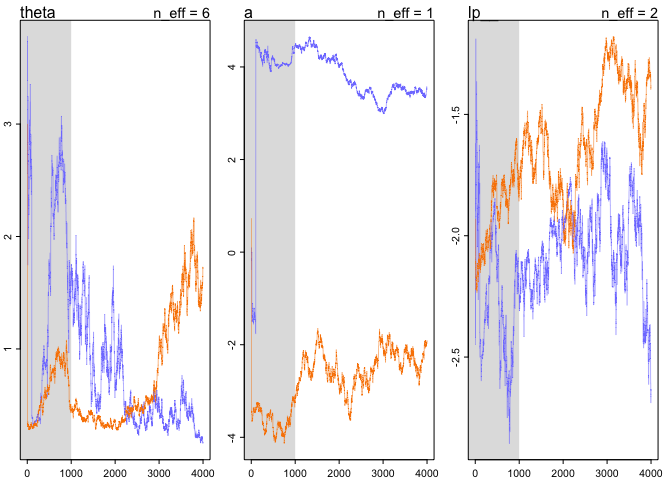
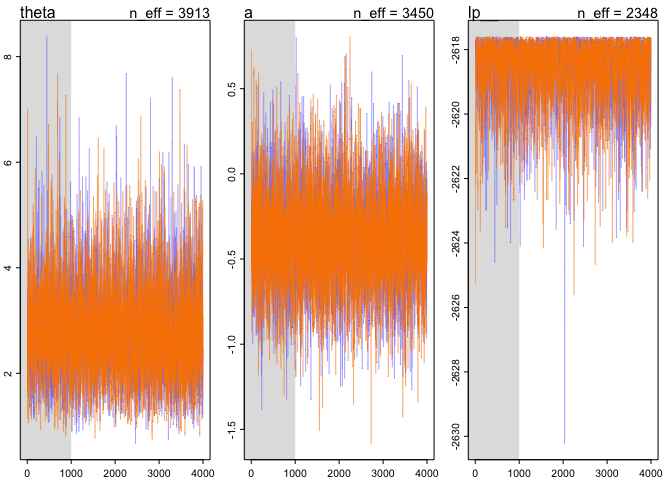
Chapter 11. Monsters and Mixtures (finished notes)

diff --git a/ch11_monsters-and-mixtures.md b/ch11_monsters-and-mixtures.md
@@ -648,7 +648,7 @@ m11_5 <- map2stan(
     alist(
         admit ~ dbetabinom(applications, pbar, theta),
         logit(pbar) <- a,
-        a ~ dnorm(0, 3),
+        a ~ dnorm(0, 2),
         theta ~ dexp(1)
     ),
     data = d,
@@ -657,51 +657,83 @@ m11_5 <- map2stan(
     iter = 4e3, 
     warmup = 1e3, 
     chains = 2, 
-    cores = 2,
-    control = list(max_treedepth = 1)
+    cores = 1
 )
 ```
 
     ## Trying to compile a simple C file
 
     ## Running /Library/Frameworks/R.framework/Resources/bin/R CMD SHLIB foo.c
-    ## clang -I"/Library/Frameworks/R.framework/Resources/include" -DNDEBUG   -I"/Library/Frameworks/R.framework/Versions/3.6/Resources/library/Rcpp/include/"  -I"/Library/Frameworks/R.framework/Versions/3.6/Resources/library/RcppEigen/include/"  -I"/Library/Frameworks/R.framework/Versions/3.6/Resources/library/RcppEigen/include/unsupported"  -I"/Library/Frameworks/R.framework/Versions/3.6/Resources/library/BH/include" -I"/Library/Frameworks/R.framework/Versions/3.6/Resources/library/StanHeaders/include/src/"  -I"/Library/Frameworks/R.framework/Versions/3.6/Resources/library/StanHeaders/include/"  -I"/Library/Frameworks/R.framework/Versions/3.6/Resources/library/rstan/include" -DEIGEN_NO_DEBUG  -D_REENTRANT  -DBOOST_DISABLE_ASSERTS -DBOOST_PENDING_INTEGER_LOG2_HPP -include stan/math/prim/mat/fun/Eigen.hpp   -isysroot /Library/Developer/CommandLineTools/SDKs/MacOSX.sdk -I/usr/local/include  -fPIC  -isysroot /Library/Developer/CommandLineTools/SDKs/MacOSX.sdk -c foo.c -o foo.o
+    ## clang -mmacosx-version-min=10.13 -I"/Library/Frameworks/R.framework/Resources/include" -DNDEBUG   -I"/Library/Frameworks/R.framework/Versions/4.0/Resources/library/Rcpp/include/"  -I"/Library/Frameworks/R.framework/Versions/4.0/Resources/library/RcppEigen/include/"  -I"/Library/Frameworks/R.framework/Versions/4.0/Resources/library/RcppEigen/include/unsupported"  -I"/Library/Frameworks/R.framework/Versions/4.0/Resources/library/BH/include" -I"/Library/Frameworks/R.framework/Versions/4.0/Resources/library/StanHeaders/include/src/"  -I"/Library/Frameworks/R.framework/Versions/4.0/Resources/library/StanHeaders/include/"  -I"/Library/Frameworks/R.framework/Versions/4.0/Resources/library/rstan/include" -DEIGEN_NO_DEBUG  -D_REENTRANT  -DBOOST_DISABLE_ASSERTS -DBOOST_PENDING_INTEGER_LOG2_HPP -include stan/math/prim/mat/fun/Eigen.hpp   -I/usr/local/include   -fPIC  -Wall -g -O2  -c foo.c -o foo.o
     ## In file included from <built-in>:1:
-    ## In file included from /Library/Frameworks/R.framework/Versions/3.6/Resources/library/StanHeaders/include/stan/math/prim/mat/fun/Eigen.hpp:13:
-    ## In file included from /Library/Frameworks/R.framework/Versions/3.6/Resources/library/RcppEigen/include/Eigen/Dense:1:
-    ## In file included from /Library/Frameworks/R.framework/Versions/3.6/Resources/library/RcppEigen/include/Eigen/Core:88:
-    ## /Library/Frameworks/R.framework/Versions/3.6/Resources/library/RcppEigen/include/Eigen/src/Core/util/Macros.h:613:1: error: unknown type name 'namespace'
+    ## In file included from /Library/Frameworks/R.framework/Versions/4.0/Resources/library/StanHeaders/include/stan/math/prim/mat/fun/Eigen.hpp:4:
+    ## In file included from /Library/Frameworks/R.framework/Versions/4.0/Resources/library/RcppEigen/include/Eigen/Dense:1:
+    ## In file included from /Library/Frameworks/R.framework/Versions/4.0/Resources/library/RcppEigen/include/Eigen/Core:88:
+    ## /Library/Frameworks/R.framework/Versions/4.0/Resources/library/RcppEigen/include/Eigen/src/Core/util/Macros.h:613:1: error: unknown type name 'namespace'
     ## namespace Eigen {
     ## ^
-    ## /Library/Frameworks/R.framework/Versions/3.6/Resources/library/RcppEigen/include/Eigen/src/Core/util/Macros.h:613:16: error: expected ';' after top level declarator
+    ## /Library/Frameworks/R.framework/Versions/4.0/Resources/library/RcppEigen/include/Eigen/src/Core/util/Macros.h:613:16: error: expected ';' after top level declarator
     ## namespace Eigen {
     ##                ^
     ##                ;
     ## In file included from <built-in>:1:
-    ## In file included from /Library/Frameworks/R.framework/Versions/3.6/Resources/library/StanHeaders/include/stan/math/prim/mat/fun/Eigen.hpp:13:
-    ## In file included from /Library/Frameworks/R.framework/Versions/3.6/Resources/library/RcppEigen/include/Eigen/Dense:1:
-    ## /Library/Frameworks/R.framework/Versions/3.6/Resources/library/RcppEigen/include/Eigen/Core:96:10: fatal error: 'complex' file not found
+    ## In file included from /Library/Frameworks/R.framework/Versions/4.0/Resources/library/StanHeaders/include/stan/math/prim/mat/fun/Eigen.hpp:4:
+    ## In file included from /Library/Frameworks/R.framework/Versions/4.0/Resources/library/RcppEigen/include/Eigen/Dense:1:
+    ## /Library/Frameworks/R.framework/Versions/4.0/Resources/library/RcppEigen/include/Eigen/Core:96:10: fatal error: 'complex' file not found
     ## #include <complex>
     ##          ^~~~~~~~~
     ## 3 errors generated.
     ## make: *** [foo.o] Error 1
-
-    ## Warning: There were 6000 transitions after warmup that exceeded the maximum treedepth. Increase max_treedepth above 1. See
-    ## http://mc-stan.org/misc/warnings.html#maximum-treedepth-exceeded
-
-    ## Warning: Examine the pairs() plot to diagnose sampling problems
-
-    ## Warning: The largest R-hat is 2.3, indicating chains have not mixed.
-    ## Running the chains for more iterations may help. See
-    ## http://mc-stan.org/misc/warnings.html#r-hat
-
-    ## Warning: Bulk Effective Samples Size (ESS) is too low, indicating posterior means and medians may be unreliable.
-    ## Running the chains for more iterations may help. See
-    ## http://mc-stan.org/misc/warnings.html#bulk-ess
-
-    ## Warning: Tail Effective Samples Size (ESS) is too low, indicating posterior variances and tail quantiles may be unreliable.
-    ## Running the chains for more iterations may help. See
-    ## http://mc-stan.org/misc/warnings.html#tail-ess
+    ## 
+    ## SAMPLING FOR MODEL 'c669d85dc0a14c2d86390e076d692f11' NOW (CHAIN 1).
+    ## Chain 1: 
+    ## Chain 1: Gradient evaluation took 0.000135 seconds
+    ## Chain 1: 1000 transitions using 10 leapfrog steps per transition would take 1.35 seconds.
+    ## Chain 1: Adjust your expectations accordingly!
+    ## Chain 1: 
+    ## Chain 1: 
+    ## Chain 1: Iteration:    1 / 4000 [  0%]  (Warmup)
+    ## Chain 1: Iteration:  400 / 4000 [ 10%]  (Warmup)
+    ## Chain 1: Iteration:  800 / 4000 [ 20%]  (Warmup)
+    ## Chain 1: Iteration: 1001 / 4000 [ 25%]  (Sampling)
+    ## Chain 1: Iteration: 1400 / 4000 [ 35%]  (Sampling)
+    ## Chain 1: Iteration: 1800 / 4000 [ 45%]  (Sampling)
+    ## Chain 1: Iteration: 2200 / 4000 [ 55%]  (Sampling)
+    ## Chain 1: Iteration: 2600 / 4000 [ 65%]  (Sampling)
+    ## Chain 1: Iteration: 3000 / 4000 [ 75%]  (Sampling)
+    ## Chain 1: Iteration: 3400 / 4000 [ 85%]  (Sampling)
+    ## Chain 1: Iteration: 3800 / 4000 [ 95%]  (Sampling)
+    ## Chain 1: Iteration: 4000 / 4000 [100%]  (Sampling)
+    ## Chain 1: 
+    ## Chain 1:  Elapsed Time: 0.097638 seconds (Warm-up)
+    ## Chain 1:                0.227966 seconds (Sampling)
+    ## Chain 1:                0.325604 seconds (Total)
+    ## Chain 1: 
+    ## 
+    ## SAMPLING FOR MODEL 'c669d85dc0a14c2d86390e076d692f11' NOW (CHAIN 2).
+    ## Chain 2: 
+    ## Chain 2: Gradient evaluation took 3.9e-05 seconds
+    ## Chain 2: 1000 transitions using 10 leapfrog steps per transition would take 0.39 seconds.
+    ## Chain 2: Adjust your expectations accordingly!
+    ## Chain 2: 
+    ## Chain 2: 
+    ## Chain 2: Iteration:    1 / 4000 [  0%]  (Warmup)
+    ## Chain 2: Iteration:  400 / 4000 [ 10%]  (Warmup)
+    ## Chain 2: Iteration:  800 / 4000 [ 20%]  (Warmup)
+    ## Chain 2: Iteration: 1001 / 4000 [ 25%]  (Sampling)
+    ## Chain 2: Iteration: 1400 / 4000 [ 35%]  (Sampling)
+    ## Chain 2: Iteration: 1800 / 4000 [ 45%]  (Sampling)
+    ## Chain 2: Iteration: 2200 / 4000 [ 55%]  (Sampling)
+    ## Chain 2: Iteration: 2600 / 4000 [ 65%]  (Sampling)
+    ## Chain 2: Iteration: 3000 / 4000 [ 75%]  (Sampling)
+    ## Chain 2: Iteration: 3400 / 4000 [ 85%]  (Sampling)
+    ## Chain 2: Iteration: 3800 / 4000 [ 95%]  (Sampling)
+    ## Chain 2: Iteration: 4000 / 4000 [100%]  (Sampling)
+    ## Chain 2: 
+    ## Chain 2:  Elapsed Time: 0.088638 seconds (Warm-up)
+    ## Chain 2:                0.212247 seconds (Sampling)
+    ## Chain 2:                0.300885 seconds (Total)
+    ## Chain 2:
 
     ## Computing WAIC
 
@@ -721,6 +753,138 @@ pairs(m11_5)
 precis(m11_5)
 ```
 
-    ##            mean        sd       5.5%    94.5%    n_eff     Rhat4
-    ## theta 0.7137719 0.4646755  0.2897086 1.632694 6.281132  1.555707
-    ## a     0.6446384 3.1438638 -2.9451512 4.435723 1.011716 11.583886
+    ##             mean       sd       5.5%     94.5%    n_eff     Rhat4
+    ## theta  2.7399242 0.946932  1.4355572 4.4392494 3913.286 0.9997085
+    ## a     -0.3775653 0.307988 -0.8717805 0.1203542 3450.286 1.0000152
+
+  - interpretation:
+      - `a` is on the log-odds scale and defines \(\bar{\textbf{p}}\) of
+        the beta distribution of probabilities for each row of the data
+      - therefore, the average probability of admission across
+        departments is about 0.4, but the percentile is quite wide
+
+<!-- end list -->
+
+``` r
+post <- extract.samples(m11_5)
+quantile(logistic(post$a), c(0.025, 0.5, 0.975))
+```
+
+    ##      2.5%       50%     97.5% 
+    ## 0.2749293 0.4066962 0.5588299
+
+  - to see what the model says of the data, need to account for
+    correlation between \(\bar{\textbf{p}}\) and \(\theta\)
+      - these parameters define a distribution of distributions
+      - 100 combinations of \(\bar{\textbf{p}}\) and \(\theta\) are
+        shown in the following plot
+
+<!-- end list -->
+
+``` r
+dist_of_dist <- map(1:300, function(i) {
+    p <- logistic(post$a[i])
+    theta <- post$theta[i]
+    x <- seq(0, 1, length.out = 100)
+    probs <- dbeta2(x, p, theta)
+    return(tibble(i, p, theta, x, prob = probs))
+}) %>%
+    bind_rows()
+
+dist_of_dist %>%
+    ggplot(aes(x, prob)) +
+    geom_line(aes(group = factor(i)), size = 0.1, alpha = 0.2) +
+    scale_y_continuous(limits = c(0, 3), 
+                       expand = expansion(mult = c(0, 0.02))) +
+    labs(x = "probability admit", 
+         y = "density",
+         title = "Posterior distribution of beta distributions")
+```
+
+![](ch11_monsters-and-mixtures_files/figure-gfm/unnamed-chunk-17-1.png)<!-- -->
+
+  - use posterior check to see how the beta distribution of
+    probabilities of admissions influences predicted counts of
+    applications admitted
+      - the y-axis shows the predicted number of admits per row of the
+        data frame on the x-axis
+      - the purple dots are the actual values
+      - open circles are the estimates from the model with 89% intervals
+      - the `+` are the 89% interval of predicted counts of admission
+          - shows there is a lot of dispersion
+          - this is from the different departments, but the model
+            doesn’t know about them
+          - the beta distribution accounts for this heterogeneity
+
+<!-- end list -->
+
+``` r
+postcheck(m11_5)
+```
+
+    ## [ 100 / 1000 ][ 200 / 1000 ][ 300 / 1000 ][ 400 / 1000 ][ 500 / 1000 ][ 600 / 1000 ][ 700 / 1000 ][ 800 / 1000 ][ 900 / 1000 ][ 1000 / 1000 ]
+    ## [ 100 / 1000 ][ 200 / 1000 ][ 300 / 1000 ][ 400 / 1000 ][ 500 / 1000 ][ 600 / 1000 ][ 700 / 1000 ][ 800 / 1000 ][ 900 / 1000 ][ 1000 / 1000 ]
+
+![](ch11_monsters-and-mixtures_files/figure-gfm/unnamed-chunk-18-1.png)<!-- -->
+
+### 11.3.2 Negative-binomial or gamma-Poisson
+
+  - *negative-binomial* (or *gamma-Poisson*): assumes that each Poisson
+    count observation has its own rate
+      - assumes the shape of the gamma distribution to describe the
+        Poisson rates
+      - predictor variables adjust the shape of this distribution, not
+        the expected value of each observation
+      - use the gamma distribution because it makes the math easier
+  - fitting a gamma-Poisson uses the `dgampois()` function
+      - distribution is defined by a mean \(\mu\) and scale \(\theta\)
+      - as \(\theta\) increases, the gamma distribution becomes for
+        dispersed around the mean
+  - below are some examples of gamma distributions
+      - as \(\theta\) approaches 0, the gamma approaches a Gaussian
+
+<!-- end list -->
+
+``` r
+mu <- 3
+thetas <- c(1, 2, 5, 10, 20)
+x_vals <- seq(0, 10, length.out = 50)
+gamma_dist_res <- tibble()
+for (theta in thetas) {
+    gamma_dist_res <- bind_rows(
+        gamma_dist_res,
+        tibble(theta, 
+               mu,
+               x = x_vals,
+               d = dgamma2(x_vals, mu, theta))
+    )
+}
+
+gamma_dist_res %>%
+    mutate(params = paste0("mu: ", mu, ", theta: ", theta)) %>%
+    ggplot(aes(x = x, y = d)) +
+    geom_line(aes(group = params, color = params)) +
+    scale_color_brewer(palette = "Dark2") +
+    theme(
+        legend.position = c(0.7, 0.7)
+    ) +
+    labs(x = "probability", y = "density", color = NULL,
+         title = "Gamma distributions")
+```
+
+![](ch11_monsters-and-mixtures_files/figure-gfm/unnamed-chunk-19-1.png)<!-- -->
+
+  - for fitting:
+      - a linear model can be attached to the definition of \(\mu\)
+        using the log link function
+      - there are examples in `?dgampois` and practice problems at the
+        end of the chapter
+
+### 11.3.3 Over-dispersion, entropy, and information criteria
+
+  - should use DIC instead of WAIC
+      - see text for an explination of why
+
+## 11.5 Practice
+
+### Easy
